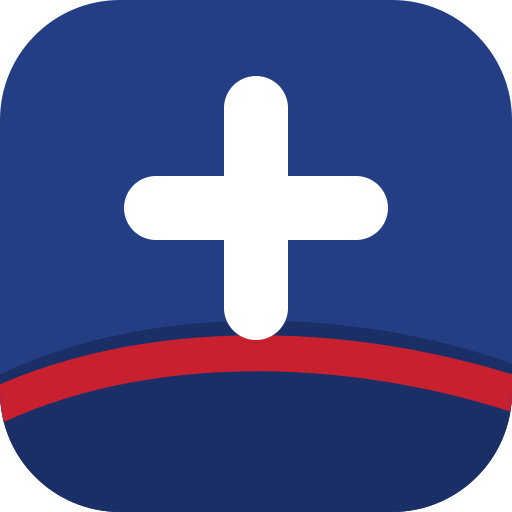
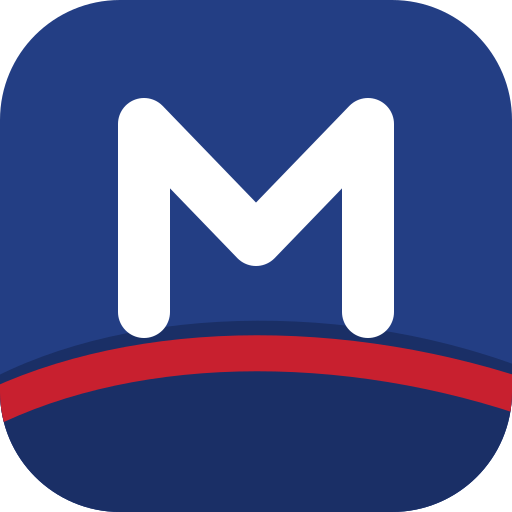
Rebrand to Martinez Insurance Agency and add agent headshots
- Business name is Martinez Insurance Agency everywhere (titles, logo, schema,
  emails, consent text, content, docs); new M monogram mark and icons
- Nidia and John headshots cropped to 4:5 in public/images/team and wired in
- Business cards, client letter and originals moved to assets/reference
  (not published)

Claude-Session: https://claude.ai/code/session_01EKdkEWnbXsz1YzBUX5kNV5

Changed region(s): [[0.2188, 0.125, 0.7812, 0.6562], [0.4375, 0.4688, 0.5625, 0.6875]]

diff --git a/src/content/es/pages.ts b/src/content/es/pages.ts
@@ -246,7 +246,7 @@ export const scam: GuideContent = {
 
 export const about: AboutContent = {
   h1: 'Un matrimonio al servicio de los adultos mayores de Luisiana',
-  lede: 'Plus 65 Medicare Advisors somos Nidia y John Martinez, agentes de seguros bilingües y con licencia en el área de Nueva Orleans. Nos sentamos con usted, le explicamos sus opciones con palabras sencillas y seguimos a su lado mucho después de que se inscribe.',
+  lede: 'En Martinez Insurance Agency somos Nidia y John Martinez, agentes de seguros bilingües y con licencia en el área de Nueva Orleans. Nos sentamos con usted, le explicamos sus opciones con palabras sencillas y seguimos a su lado mucho después de que se inscribe.',
   sections: [
     {
       id: 'local-personal-bilingual',
@@ -254,7 +254,7 @@ export const about: AboutContent = {
       blocks: [
         {
           type: 'p',
-          text: 'Plus 65 Medicare Advisors nace de una idea sencilla: la ayuda con Medicare debe ser honesta, paciente y personal. Nidia aporta décadas de experiencia con planes Medicare Advantage y Medicare Suplementario. John ayuda a las familias con seguros de gastos finales, de vida, de indemnización hospitalaria, dentales y de visión, y de salud. Juntos respondemos las preguntas que surgen a partir de los 65 años.',
+          text: 'Martinez Insurance Agency nace de una idea sencilla: la ayuda con Medicare debe ser honesta, paciente y personal. Nidia aporta décadas de experiencia con planes Medicare Advantage y Medicare Suplementario. John ayuda a las familias con seguros de gastos finales, de vida, de indemnización hospitalaria, dentales y de visión, y de salud. Juntos respondemos las preguntas que surgen a partir de los 65 años.',
         },
         {
           type: 'p',
@@ -306,7 +306,7 @@ export const agents: Record<string, AgentContent> = {
     bio: [
       'Nidia Martinez es agente de seguros con licencia y ha dedicado una larga trayectoria a ayudar a las personas a entender sus opciones de seguro. Hoy Nidia se enfoca en los planes Medicare Advantage y Medicare Suplementario para adultos mayores de toda el área de Nueva Orleans y del resto de Luisiana.',
       'Nidia habla español e inglés con fluidez y se toma el tiempo de explicar cada opción con claridad, comparar planes lado a lado y asegurarse de que cada cliente tome su decisión con confianza antes de inscribirse.',
-      'Junto a John Martinez en Plus 65 Medicare Advisors, Nidia ofrece ayuda personal y en persona sin costo para usted, además de una voz conocida a quien llamar cuando su plan cambie cada año. Conozca los planes [Medicare Advantage](page:service-medicare-advantage) y [Medicare Suplementario](page:service-medicare-supplement).',
+      'Junto a John Martinez en Martinez Insurance Agency, Nidia ofrece ayuda personal y en persona sin costo para usted, además de una voz conocida a quien llamar cuando su plan cambie cada año. Conozca los planes [Medicare Advantage](page:service-medicare-advantage) y [Medicare Suplementario](page:service-medicare-supplement).',
     ],
     focus: [
       'Medicare Advantage (Parte C)',
@@ -354,7 +354,7 @@ export const agents: Record<string, AgentContent> = {
   'john-martinez': {
     headline: 'Agente de seguros con licencia: gastos finales, vida, indemnización hospitalaria, dental y visión, y salud',
     bio: [
-      'John Martinez es agente de seguros con licencia y trabaja junto a Nidia en Plus 65 Medicare Advisors. John ayuda a las familias de Luisiana con las coberturas que complementan a Medicare: seguros de gastos finales y de vida a buen precio, planes de indemnización hospitalaria, cobertura dental y de visión, y seguros de salud para menores de 65 años.',
+      'John Martinez es agente de seguros con licencia y trabaja junto a Nidia en Martinez Insurance Agency. John ayuda a las familias de Luisiana con las coberturas que complementan a Medicare: seguros de gastos finales y de vida a buen precio, planes de indemnización hospitalaria, cobertura dental y de visión, y seguros de salud para menores de 65 años.',
       'John habla español e inglés con fluidez y atiende a sus clientes en persona y por teléfono. Ya sea que quiera planificar el futuro de su familia o busque ayuda con los copagos del hospital, John le explicará sus opciones con palabras sencillas y le ayudará a elegir una cobertura que se ajuste a su presupuesto.',
       'John también ayuda a sus clientes a protegerse de los fraudes de Medicare. Si recibe una llamada sospechosa sobre Medicare, no se inscriba por teléfono con un desconocido: mejor llame a John. Lea nuestra [guía de protección contra fraudes de Medicare](page:scam).',
     ],

diff --git a/scripts/generate-icons.tsx b/scripts/generate-icons.tsx
@@ -1,14 +1,14 @@
 /**
  * Generates the brand assets from code (run `npm run icons`, then commit the output):
- *   public/brand/plus65-mark.svg     — the mark
- *   public/brand/plus65-logo.svg     — mark + wordmark, text converted to outlines
- *   public/brand/plus65-logo.png     — raster logo for schema.org / email
+ *   public/brand/mark.svg     — the "M" monogram mark
+ *   public/brand/logo.svg     — mark + wordmark, text converted to outlines
+ *   public/brand/logo.png     — raster logo for schema.org / email
  *   src/app/favicon.ico, icon.svg, apple-icon.png
  *   public/icon-192.png, icon-512.png, icon-maskable-512.png (web manifest)
  *
- * The original PLUS 65 logo (business card PDF) wasn't available when this was built;
- * this is a faithful-in-spirit recreation in the brand navy/red. Replace the files in
- * public/brand/ with the official artwork when you have it.
+ * No official Martinez Insurance Agency logo was available when this was built; this is
+ * a clean interim mark in the brand navy/red. Replace the files in public/brand/ with the
+ * official artwork when you have it.
  */
 import { mkdirSync, readFileSync, writeFileSync } from 'node:fs';
 import path from 'node:path';
@@ -21,7 +21,7 @@ const RED = '#C8202F';
 
 const markSvg = (opts: { rounded?: boolean; padded?: boolean } = {}) => {
   const rx = opts.rounded === false ? 0 : 15;
-  const inner = `<g clip-path="url(#c)"><rect width="64" height="64" fill="${NAVY}"/><path d="M-4 49C14 38 44 37 68 47V70H-4Z" fill="${NAVY_DARK}"/><path d="M-4 52.5C15 42 43 41.5 68 50.5" fill="none" stroke="${RED}" stroke-width="4.5"/><path d="M32 13.5V38.5M19.5 26H44.5" stroke="#FFFFFF" stroke-width="8" stroke-linecap="round"/></g>`;
+  const inner = `<g clip-path="url(#c)"><rect width="64" height="64" fill="${NAVY}"/><path d="M-4 49C14 38 44 37 68 47V70H-4Z" fill="${NAVY_DARK}"/><path d="M-4 52.5C15 42 43 41.5 68 50.5" fill="none" stroke="${RED}" stroke-width="4.5"/><path d="M18 39V15.5L32 30L46 15.5V39" fill="none" stroke="#FFFFFF" stroke-width="6.5" stroke-linecap="round" stroke-linejoin="round"/></g>`;
   if (opts.padded) {
     // Maskable icon: full-bleed navy with the mark inside the safe zone.
     return `<svg xmlns="http://www.w3.org/2000/svg" viewBox="0 0 64 64"><defs><clipPath id="c"><rect width="64" height="64"/></clipPath></defs><rect width="64" height="64" fill="${NAVY}"/><g transform="translate(12.8 12.8) scale(0.6)">${inner}</g></svg>`;
@@ -62,7 +62,7 @@ async function main() {
   const sansBold = readFileSync(path.join(fonts, 'atkinson-hyperlegible-next-latin-700-normal.woff'));
 
   const mark = markSvg();
-  writeFileSync(path.join(brandDir, 'plus65-mark.svg'), mark);
+  writeFileSync(path.join(brandDir, 'mark.svg'), mark);
   writeFileSync(path.join(root, 'src', 'app', 'icon.svg'), mark);
 
   // Wordmark logo (text → outlines via satori).
@@ -72,11 +72,9 @@ async function main() {
       {/* eslint-disable-next-line @next/next/no-img-element */}
       <img src={markDataUri} width={96} height={96} alt="" />
       <div style={{ display: 'flex', flexDirection: 'column', marginLeft: 22 }}>
-        <div style={{ display: 'flex', fontFamily: 'Serif', fontSize: 62, lineHeight: 1, color: '#111F4A' }}>
-          PLUS&nbsp;<span style={{ color: RED }}>65</span>
-        </div>
-        <div style={{ display: 'flex', fontFamily: 'Sans', fontSize: 19, letterSpacing: 4.5, marginTop: 8, color: NAVY }}>
-          MEDICARE ADVISORS
+        <div style={{ display: 'flex', fontFamily: 'Serif', fontSize: 62, lineHeight: 1, color: '#111F4A' }}>Martinez</div>
+        <div style={{ display: 'flex', fontFamily: 'Sans', fontSize: 19, letterSpacing: 3.6, marginTop: 8, color: RED }}>
+          INSURANCE AGENCY
         </div>
       </div>
     </div>,
@@ -89,13 +87,13 @@ async function main() {
       ],
     },
   );
-  writeFileSync(path.join(brandDir, 'plus65-logo.svg'), logoSvg);
+  writeFileSync(path.join(brandDir, 'logo.svg'), logoSvg);
   // White-background PNG (schema.org logos should be legible on white).
   await sharp(Buffer.from(logoSvg), { density: 300 })
     .resize(960, 220, { fit: 'contain', background: '#FFFFFF' })
     .flatten({ background: '#FFFFFF' })
     .png()
-    .toFile(path.join(brandDir, 'plus65-logo.png'));
+    .toFile(path.join(brandDir, 'logo.png'));
 
   const png = (svg: string, size: number) => sharp(Buffer.from(svg), { density: 600 }).resize(size, size).png().toBuffer();
   const sizes = [16, 32, 48];

diff --git a/src/content/en/pages.ts b/src/content/en/pages.ts
@@ -246,7 +246,7 @@ export const scam: GuideContent = {
 
 export const about: AboutContent = {
   h1: 'A Husband-and-Wife Team Helping Louisiana Seniors',
-  lede: 'Plus 65 Medicare Advisors is Nidia and John Martinez — licensed, bilingual insurance agents based in Greater New Orleans. We sit down with you, explain your options in plain language, and stay by your side long after you enroll.',
+  lede: 'Martinez Insurance Agency is Nidia and John Martinez — licensed, bilingual insurance agents based in Greater New Orleans. We sit down with you, explain your options in plain language, and stay by your side long after you enroll.',
   sections: [
     {
       id: 'local-personal-bilingual',
@@ -254,7 +254,7 @@ export const about: AboutContent = {
       blocks: [
         {
           type: 'p',
-          text: 'Plus 65 Medicare Advisors is built around a simple idea: Medicare help should be honest, patient and personal. Nidia brings decades of experience with Medicare Advantage and Medicare Supplement plans. John helps families with final expense, life, hospital indemnity, dental and vision, and health insurance. Together we cover the questions that come up at 65 and beyond.',
+          text: 'Martinez Insurance Agency is built around a simple idea: Medicare help should be honest, patient and personal. Nidia brings decades of experience with Medicare Advantage and Medicare Supplement plans. John helps families with final expense, life, hospital indemnity, dental and vision, and health insurance. Together we cover the questions that come up at 65 and beyond.',
         },
         {
           type: 'p',
@@ -306,7 +306,7 @@ export const agents: Record<string, AgentContent> = {
     bio: [
       'Nidia Martinez is a licensed insurance agent who has spent a long career helping people understand their insurance options. Today Nidia focuses on Medicare Advantage and Medicare Supplement plans for seniors across Greater New Orleans and throughout Louisiana.',
       'Nidia is fluent in English and Spanish and takes the time to explain each option clearly, compare plans side by side, and make sure every client feels confident before enrolling.',
-      'Working alongside John Martinez at Plus 65 Medicare Advisors, Nidia offers personal, in-person help at no cost to you, plus a familiar voice to call when your plan changes each year. Learn about [Medicare Advantage](page:service-medicare-advantage) and [Medicare Supplement](page:service-medicare-supplement) plans.',
+      'Working alongside John Martinez at Martinez Insurance Agency, Nidia offers personal, in-person help at no cost to you, plus a familiar voice to call when your plan changes each year. Learn about [Medicare Advantage](page:service-medicare-advantage) and [Medicare Supplement](page:service-medicare-supplement) plans.',
     ],
     focus: [
       'Medicare Advantage (Part C)',
@@ -354,7 +354,7 @@ export const agents: Record<string, AgentContent> = {
   'john-martinez': {
     headline: 'Licensed insurance agent for final expense, life, hospital indemnity, dental & vision and health insurance',
     bio: [
-      'John Martinez is a licensed insurance agent who works alongside Nidia at Plus 65 Medicare Advisors. John helps Louisiana families with the coverage that fills the gaps around Medicare — final expense and low-cost life insurance, hospital indemnity plans, dental and vision coverage, and health insurance for people under 65.',
+      'John Martinez is a licensed insurance agent who works alongside Nidia at Martinez Insurance Agency. John helps Louisiana families with the coverage that fills the gaps around Medicare — final expense and low-cost life insurance, hospital indemnity plans, dental and vision coverage, and health insurance for people under 65.',
       "John is fluent in English and Spanish and works with clients in person and by phone. Whether you're planning ahead for your family or looking for help with hospital copays, John will explain your options in plain language and help you choose coverage that fits your budget.",
       "John also helps clients stay safe from Medicare scams. If you get a suspicious call about Medicare, don't enroll over the phone with a stranger — call John instead. Read our [Medicare scam protection guide](page:scam).",
     ],

diff --git a/src/config/site.ts b/src/config/site.ts
@@ -89,8 +89,8 @@ export const agents: Agent[] = [
     phone: { display: '(504) 913-2398', e164: '+15049132398' },
     phoneLabel: 'direct',
     email: 'nidiamartinez576@outlook.com',
-    headshot: null, // TODO: add Nidia's headshot (match John's style) → "/images/team/nidia-martinez.jpg"
-    headshotSize: null,
+    headshot: '/images/team/nidia-martinez.jpg',
+    headshotSize: { width: 720, height: 900 },
     languages: ['en', 'es'],
     licenseNumber: null, // TODO
     npn: null, // TODO
@@ -111,8 +111,8 @@ export const agents: Agent[] = [
     phone: { display: '(504) 313-2317', e164: '+15043132317' },
     phoneLabel: 'cell',
     email: 'martj5493@gmail.com',
-    headshot: null, // TODO: optimise assets/John_Martinez_Headshot__1_.jpg → "/images/team/john-martinez.jpg"
-    headshotSize: null,
+    headshot: '/images/team/john-martinez.jpg',
+    headshotSize: { width: 720, height: 900 },
     languages: ['en', 'es'],
     licenseNumber: null, // TODO
     npn: null, // TODO
@@ -143,8 +143,8 @@ export const carriers: { medicareAdvantage: Carrier[]; medicareSupplement: Carri
 // ─── Business ────────────────────────────────────────────────────────────────
 
 export const site = {
-  name: 'Plus 65 Medicare Advisors',
-  shortName: 'Plus 65',
+  name: 'Martinez Insurance Agency',
+  shortName: 'Martinez Insurance',
   /** Business email used in schema and the footer. */
   email: 'nidiamartinez576@outlook.com',
   /** The primary business line (header, sticky call bar, schema). Nidia's number. */
@@ -190,9 +190,9 @@ export const site = {
   brand: {
     navy: '#233E84',
     red: '#C8202F',
-    logo: '/brand/plus65-logo.svg',
-    logoPng: '/brand/plus65-logo.png',
-    mark: '/brand/plus65-mark.svg',
+    logo: '/brand/logo.svg',
+    logoPng: '/brand/logo.png',
+    mark: '/brand/mark.svg',
   },
 } as const;
 

diff --git a/src/components/ui/Logo.tsx b/src/components/ui/Logo.tsx
@@ -1,4 +1,5 @@
 import { Link } from '@/i18n/Link';
+import { site } from '@/config/site';
 import { LogoMark } from './LogoMark';
 
 type Props = {
@@ -12,22 +13,24 @@ type Props = {
 export function Logo({ tone = 'light', homeLabel, tagline, className = '' }: Props) {
   const onDark = tone === 'dark';
   return (
-    <Link href="/" className={`group inline-flex min-h-12 items-center gap-2.5 no-underline sm:gap-3 ${className}`}>
-      <LogoMark className="h-10 w-10 shrink-0 sm:h-12 sm:w-12" />
-      <span aria-hidden className="p65-wordmark flex flex-col leading-none">
+    <Link href="/" className={`group inline-flex min-h-12 items-center gap-2 no-underline sm:gap-3 ${className}`}>
+      <LogoMark className="h-9 w-9 shrink-0 sm:h-12 sm:w-12" />
+      <span aria-hidden className="brand-wordmark flex flex-col leading-none">
         <span
-          className={`font-serif text-[1.3rem] font-semibold tracking-tight sm:text-[1.55rem] ${onDark ? 'text-white' : 'text-navy-900'}`}
+          className={`font-serif text-[1.15rem] font-semibold tracking-tight sm:text-[1.55rem] ${onDark ? 'text-white' : 'text-navy-900'}`}
         >
-          PLUS <span className={onDark ? 'text-white' : 'text-red-600'}>65</span>
+          Martinez
         </span>{' '}
         <span
-          className={`mt-1 hidden text-[0.62rem] font-bold tracking-[0.2em] uppercase min-[400px]:block sm:text-[0.66rem] ${onDark ? 'text-navy-100' : 'text-navy-700'}`}
+          className={`mt-1 hidden text-[0.64rem] font-bold tracking-[0.16em] uppercase sm:block sm:text-[0.66rem] ${onDark ? 'text-navy-100' : 'text-red-700'}`}
         >
           {tagline}
         </span>
       </span>
       {/* The accessible name never depends on which parts of the wordmark are visible. */}
-      <span className="sr-only">Plus 65 Medicare Advisors — {homeLabel}</span>
+      <span className="sr-only">
+        {site.name} — {homeLabel}
+      </span>
     </Link>
   );
 }

diff --git a/src/content/es/legal.ts b/src/content/es/legal.ts
@@ -10,7 +10,7 @@ export const privacy: LegalContent = {
       blocks: [
         {
           type: 'p',
-          text: 'Esta política explica cómo Plus 65 Medicare Advisors (“nosotros”) recopila, usa y protege la información cuando usted visita este sitio web o se comunica con nosotros a través de él.',
+          text: 'Esta política explica cómo Martinez Insurance Agency (“nosotros”) recopila, usa y protege la información cuando usted visita este sitio web o se comunica con nosotros a través de él.',
         },
       ],
     },
@@ -142,7 +142,7 @@ export const terms: LegalContent = {
       blocks: [
         {
           type: 'p',
-          text: 'Plus 65 Medicare Advisors es una agencia de seguros con licencia. No estamos afiliados ni respaldados por el gobierno de los EE. UU. ni por el programa federal de Medicare.',
+          text: 'Martinez Insurance Agency es una agencia de seguros con licencia. No estamos afiliados ni respaldados por el gobierno de los EE. UU. ni por el programa federal de Medicare.',
         },
       ],
     },
@@ -192,7 +192,7 @@ export const terms: LegalContent = {
       blocks: [
         {
           type: 'p',
-          text: 'El contenido, el diseño y el logotipo de este sitio pertenecen a Plus 65 Medicare Advisors, salvo que se indique lo contrario. Los nombres de las compañías de seguros son marcas de sus dueños y se usan solo para identificar a las compañías que representamos.',
+          text: 'El contenido, el diseño y el logotipo de este sitio pertenecen a Martinez Insurance Agency, salvo que se indique lo contrario. Los nombres de las compañías de seguros son marcas de sus dueños y se usan solo para identificar a las compañías que representamos.',
         },
       ],
     },

diff --git a/src/content/en/legal.ts b/src/content/en/legal.ts
@@ -10,7 +10,7 @@ export const privacy: LegalContent = {
       blocks: [
         {
           type: 'p',
-          text: 'This policy explains how Plus 65 Medicare Advisors (“we,” “us”) collects, uses and protects information when you visit this website or contact us through it.',
+          text: 'This policy explains how Martinez Insurance Agency (“we,” “us”) collects, uses and protects information when you visit this website or contact us through it.',
         },
       ],
     },
@@ -139,7 +139,7 @@ export const terms: LegalContent = {
       blocks: [
         {
           type: 'p',
-          text: 'Plus 65 Medicare Advisors is a licensed insurance agency. We are not connected with or endorsed by the U.S. government or the federal Medicare program.',
+          text: 'Martinez Insurance Agency is a licensed insurance agency. We are not connected with or endorsed by the U.S. government or the federal Medicare program.',
         },
       ],
     },
@@ -189,7 +189,7 @@ export const terms: LegalContent = {
       blocks: [
         {
           type: 'p',
-          text: 'The content, design and logo of this site belong to Plus 65 Medicare Advisors unless otherwise noted. Insurance company names are trademarks of their owners and are used only to identify the companies we represent.',
+          text: 'The content, design and logo of this site belong to Martinez Insurance Agency unless otherwise noted. Insurance company names are trademarks of their owners and are used only to identify the companies we represent.',
         },
       ],
     },

diff --git a/src/app/og/[locale]/[page]/route.tsx b/src/app/og/[locale]/[page]/route.tsx
@@ -57,12 +57,19 @@ export async function GET(_req: Request, { params }: { params: Promise<{ locale:
         <svg width="76" height="76" viewBox="0 0 64 64">
           <rect width="64" height="64" rx="15" fill="#233E84" />
           <path d="M-4 52.5C15 42 43 41.5 68 50.5" fill="none" stroke="#C8202F" strokeWidth="4.5" />
-          <path d="M32 13.5V38.5M19.5 26H44.5" stroke="#FFFFFF" strokeWidth="8" strokeLinecap="round" />
+          <path
+            d="M18 39V15.5L32 30L46 15.5V39"
+            fill="none"
+            stroke="#FFFFFF"
+            strokeWidth="6.5"
+            strokeLinecap="round"
+            strokeLinejoin="round"
+          />
         </svg>
         <div style={{ display: 'flex', flexDirection: 'column', marginLeft: 22 }}>
-          <div style={{ display: 'flex', fontFamily: 'SourceSerif', fontSize: 40, color: '#FFFFFF' }}>PLUS 65</div>
+          <div style={{ display: 'flex', fontFamily: 'SourceSerif', fontSize: 40, color: '#FFFFFF' }}>Martinez</div>
           <div style={{ display: 'flex', fontSize: 17, letterSpacing: 5, color: '#C9D3EC', fontWeight: 700 }}>
-            MEDICARE ADVISORS
+            INSURANCE AGENCY
           </div>
         </div>
       </div>

diff --git a/src/components/ui/LogoMark.tsx b/src/components/ui/LogoMark.tsx
@@ -1,8 +1,8 @@
 import { useId } from 'react';
 
-/** The PLUS 65 mark: a white plus on navy with the red curve from the business card. */
+/** Martinez Insurance Agency mark: a white "M" monogram on navy with the red business-card curve. */
 export function LogoMark({ className, title }: { className?: string; title?: string }) {
-  const clipId = `p65-${useId().replace(/:/g, '')}`;
+  const clipId = `mark-${useId().replace(/:/g, '')}`;
   return (
     <svg
       viewBox="0 0 64 64"
@@ -21,7 +21,14 @@ export function LogoMark({ className, title }: { className?: string; title?: str
         <rect width="64" height="64" fill="#233E84" />
         <path d="M-4 49C14 38 44 37 68 47V70H-4Z" fill="#1A2F66" />
         <path d="M-4 52.5C15 42 43 41.5 68 50.5" fill="none" stroke="#C8202F" strokeWidth="4.5" />
-        <path d="M32 13.5V38.5M19.5 26H44.5" stroke="#FFFFFF" strokeWidth="8" strokeLinecap="round" />
+        <path
+          d="M18 39V15.5L32 30L46 15.5V39"
+          fill="none"
+          stroke="#FFFFFF"
+          strokeWidth="6.5"
+          strokeLinecap="round"
+          strokeLinejoin="round"
+        />
       </g>
     </svg>
   );

diff --git a/src/app/globals.css b/src/app/globals.css
@@ -1,7 +1,7 @@
 @import 'tailwindcss';
 
 /*
- * Plus 65 design tokens. Navy leads, red is reserved for calls to action and key
+ * Martinez Insurance Agency design tokens. Navy leads, red is reserved for calls to action and key
  * accents, warm "paper" and "sand" surfaces keep it human. Body text is AAA on every
  * surface it sits on.
  */
@@ -187,13 +187,13 @@
 }
 
 /* Header fit on small phones: the wordmark text yields to the phone number and menu. */
-@media (max-width: 399px) {
-  header .p65-wordmark {
+@media (max-width: 379px) {
+  header .brand-wordmark {
     display: none;
   }
 }
 @media (max-width: 479px) {
-  html[data-text-size='large'] header .p65-wordmark {
+  html[data-text-size='large'] header .brand-wordmark {
     display: none;
   }
 }

diff --git a/src/components/ui/Curve.tsx b/src/components/ui/Curve.tsx
@@ -1,4 +1,4 @@
-/** Gentle wave echoing the curves on the Plus 65 business card. Uses currentColor. */
+/** Gentle wave echoing the curves on the business card. Uses currentColor. */
 export function Curve({ className }: { className?: string }) {
   return (
     <svg viewBox="0 0 1440 80" preserveAspectRatio="none" aria-hidden focusable="false" className={className}>

diff --git a/src/lib/schema.ts b/src/lib/schema.ts
@@ -159,7 +159,6 @@ export function websiteSchema(locale: AppLocale, description: string): WithConte
     description,
     inLanguage: [hreflangCode.en, hreflangCode.es],
     publisher: { '@type': 'InsuranceAgency', '@id': agencyId(), name: site.name },
-    ...(locale === 'es' ? { alternateName: 'Plus 65 Asesores de Medicare' } : {}),
   };
 }
 
